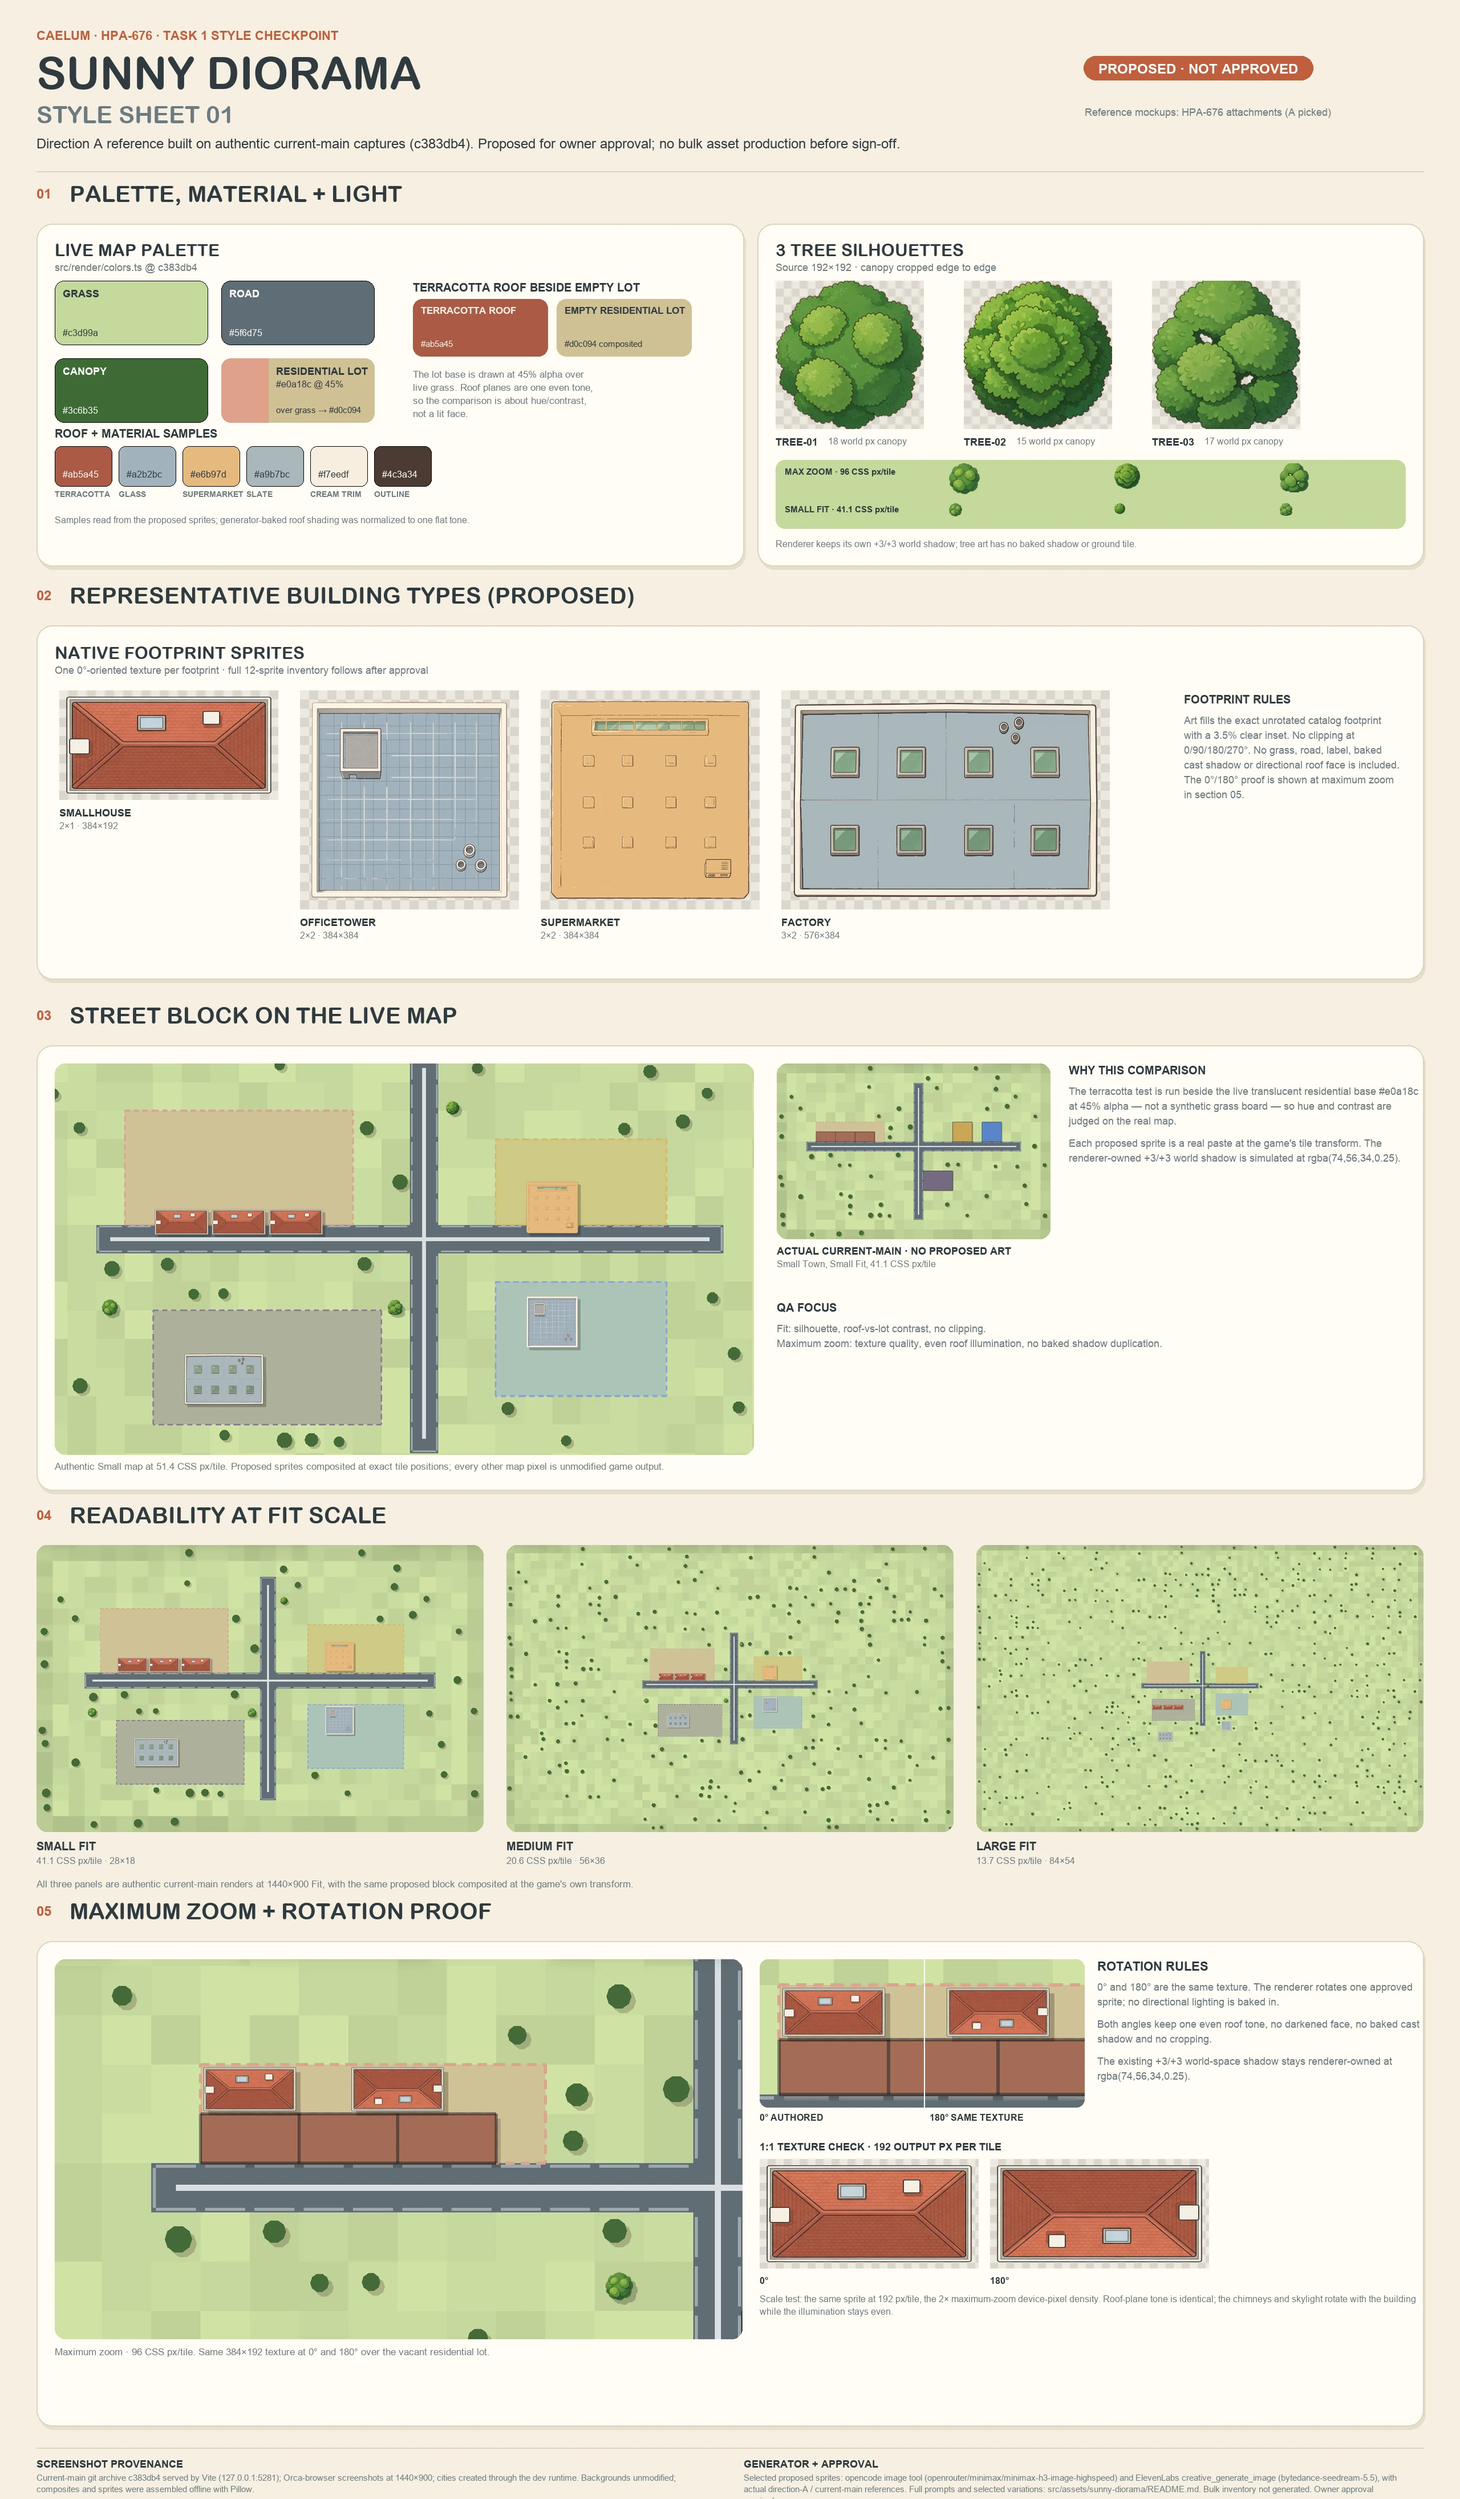
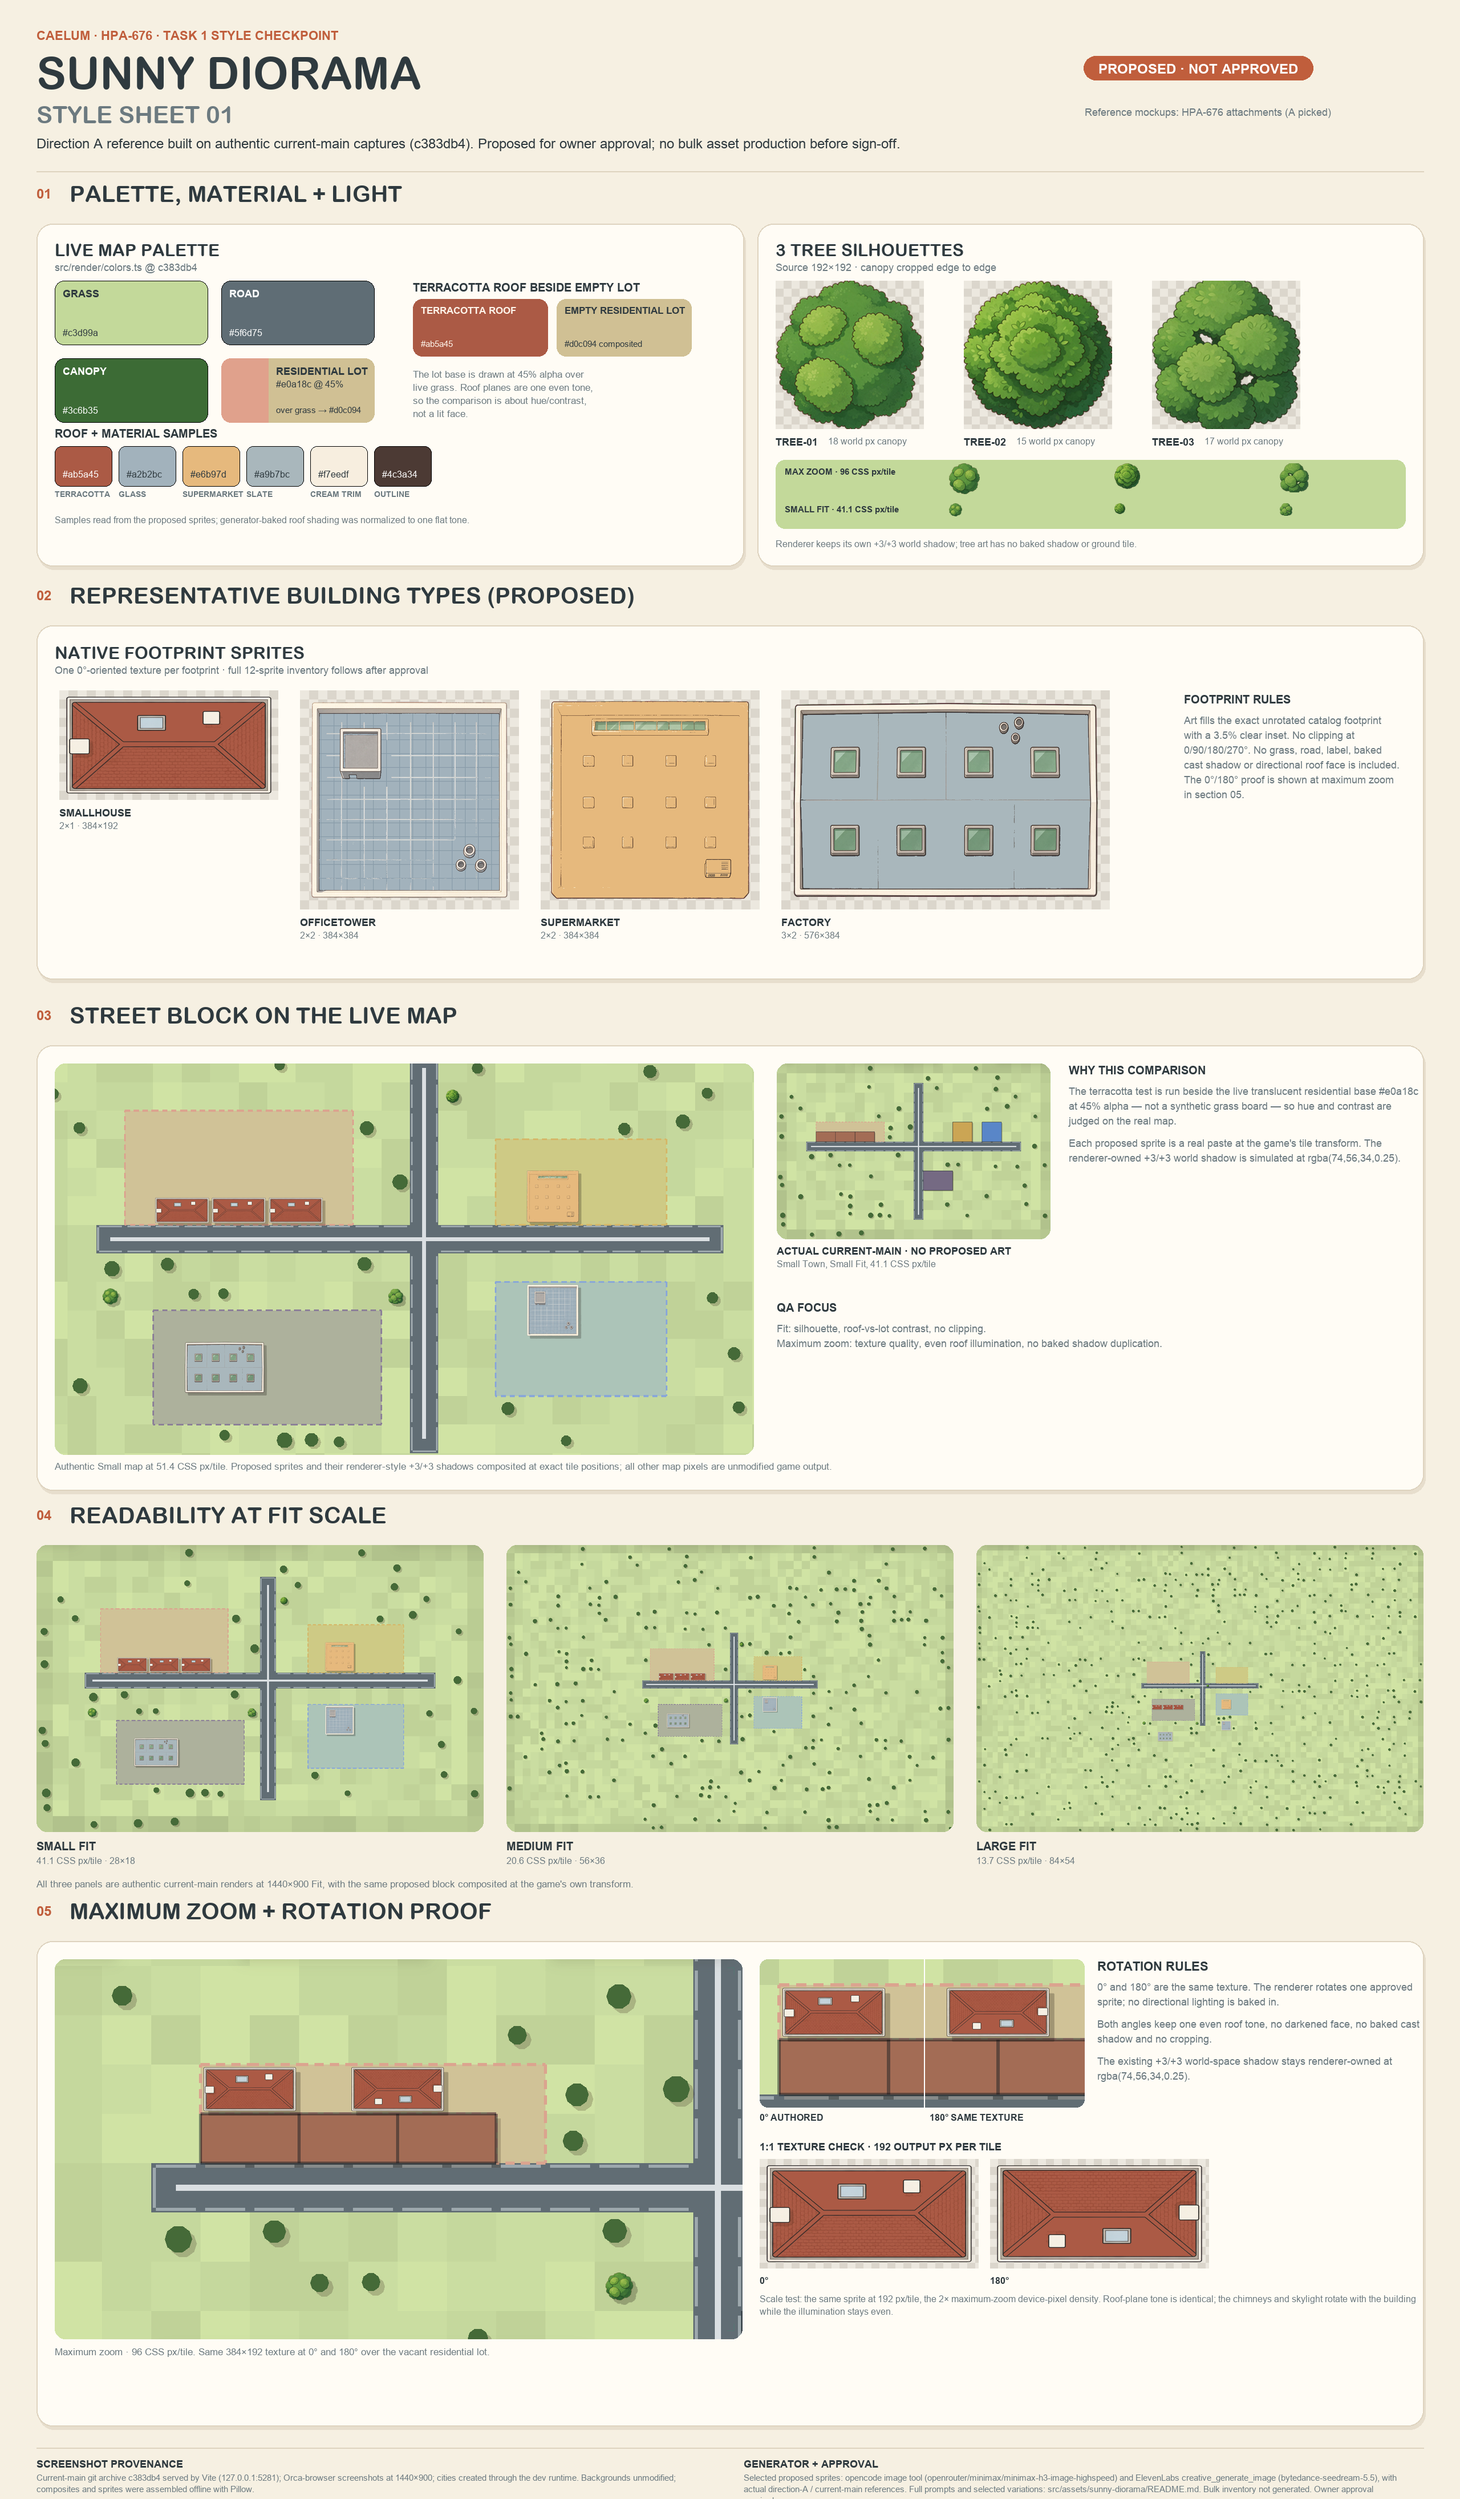
fix(HPA-676): correct house roof lighting and street placement
Flatten the representative house roof fill to one #ab5a45 tone so matched upper/lower patches are identical at 0 and 180 degrees, and apply the full camera offset in the 51.4 CSS px/tile street panel so sprites no longer overlap the road. Rebuild the board as lossless WebP and correct the README normalization claim.

diff --git a/src/assets/sunny-diorama/README.md b/src/assets/sunny-diorama/README.md
@@ -83,7 +83,7 @@ No generation framework or app code was added. These are one-off offline generat
 ### Opencode image tool
 
 - Tool: `experimental_image_generate`.
-- Provider/model reported by the tool: **`openrouter/minimax/minimax-h3-image-highspeed`**.
+- The tool's job response named the route **`openrouter/minimax/minimax-h3-image-highspeed`**. This is transcribed from the invocation response, not independently verifiable from the saved JPEG; no seed or sampler was exposed.
 - Selected output: `smallHouse-test-03.jpg` (5152×3232), used for the small-house sprite and the 0°/180° proof.
 - Discarded: `smallHouse-test-01` and `smallHouse-test-02` (not committed; kept outside the repo).
 - References: a crop of the HPA-676 direction-A mockup, and a crop of the HPA-676 “Game screen in Sunny Diorama” mockup.
@@ -145,7 +145,7 @@ Tree 3:
 The generators were not used raw. The selected images were cleaned **offline with Pillow**, outside the repo:
 
 1. Chroma-matte the magenta studio background to alpha, despill the edge; the office variant had a white background and was flood-filled from the border instead.
-2. Flat-field the broad roof-plane shading to one even tone; terracotta roof pixels were additionally normalized to one terracotta hue/value while keeping tile-line texture.
+2. For the representative house, replace every roof-fill pixel with one flat `#ab5a45` terracotta tone and retain only the darker tile/ridge line work. This makes the upper and lower plane fills identical. The first committed sheet used hue/value normalization alone and still had a visible upper/lower brightness split (round-1 review measured roughly `(210, 115, 86)` above vs `(168, 87, 66)` below); that approach was replaced.
 3. Flatten the supermarket deck and factory slate deck to one flat material colour, removing generator-baked shadows from the deck; re-add only a neutral office glass grid.
 4. Crop to content and fit inside the exact unrotated 192 px/tile footprint with a 3.5% clear inset (non-uniform stretch to the footprint). Trees are scaled to fill a 192×192 square edge-to-edge.
 
@@ -159,7 +159,7 @@ The style sheet's map examples are **actual current-main screenshots with propos
 - Runtime: `bun install --frozen-lockfile`, `bun run wasm:build`, then `bunx vite --host 127.0.0.1 --port 5281 --strictPort`.
 - Browser: Orca built-in browser, 1440×900 CSS viewport, screenshots captured with `orca screenshot` (PNG).
 - City setup: the dev-only `window.__caelumRuntime` seam already present in `src/main.ts` on main. Cities were created with `persistence.createCity`, roads/lots painted with the real gameplay intents (`setTool`, `startDrag`, `setDragCurrent`, `commitDrag`), and the camera set with `adjustCamera`. No game code, renderer, shader or UI was changed.
-- Composites: Pillow pastes at the game's own tile transform. For Fit, `fit = min(1440 / (mapW*32), 740 / (mapH*32))`, `tile = 32*fit`, board centred in the 900 px viewport with the renderer's 72 top / 88 bottom HUD insets. Maximum zoom is 96 CSS px/tile. The renderer-owned `+3/+3` shadow is simulated at `rgba(74, 56, 34, 0.25)`. Every pixel outside a pasted sprite is unmodified screenshot output.
+- Composites: Pillow pastes at the game's own tile transform, including the full camera offsets for the 51.4 CSS px/tile street-block panel (the first committed street panel omitted the `-20.5px` vertical offset and was corrected in round 1). For Fit, `fit = min(1440 / (mapW*32), 740 / (mapH*32))`, `tile = 32*fit`, board centred in the 900 px viewport with the renderer's 72 top / 88 bottom HUD insets. Maximum zoom is 96 CSS px/tile. The renderer-owned `+3/+3` shadow is simulated at `rgba(74, 56, 34, 0.25)`. Every pixel outside a pasted sprite and its simulated +3/+3 shadow is unmodified screenshot output.
 
 Raw captures (outside Git, hashes for audit):
 
@@ -173,6 +173,11 @@ Raw captures (outside Git, hashes for audit):
[1 lines of base64/hex data omitted]
 
 The board's raw “actual current-main · no proposed art” inset is `small-fit-smalltown.png`, cropped to the board rectangle.
+
+## Review round 1 corrections
+
+- **House roof illumination:** the upper plane was visibly lighter than the lower plane in the first committed board. The roof fill is now one exact `#ab5a45` tone in both planes; matched patch medians on the committed board are identical. The README normalization claim above was corrected.
+- **Street-block placement:** the first street panel omitted the screenshot camera offsets, so the houses and supermarket overlapped the road by about 20.5 px. The compositor now applies `off_x`/`off_y`; the house and supermarket bottoms sit exactly on the road's top edge, with no building body pixels in the road; only the renderer-style +3/+3 shadow falls onto the road, as intended.
 
 ## Approval gate
 
